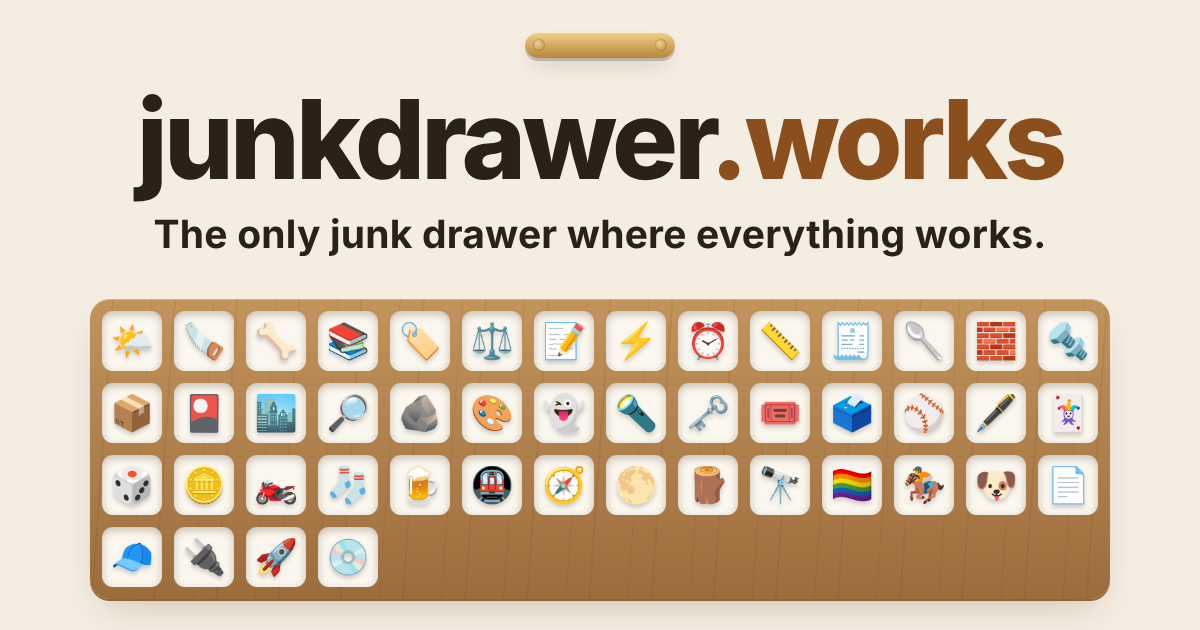
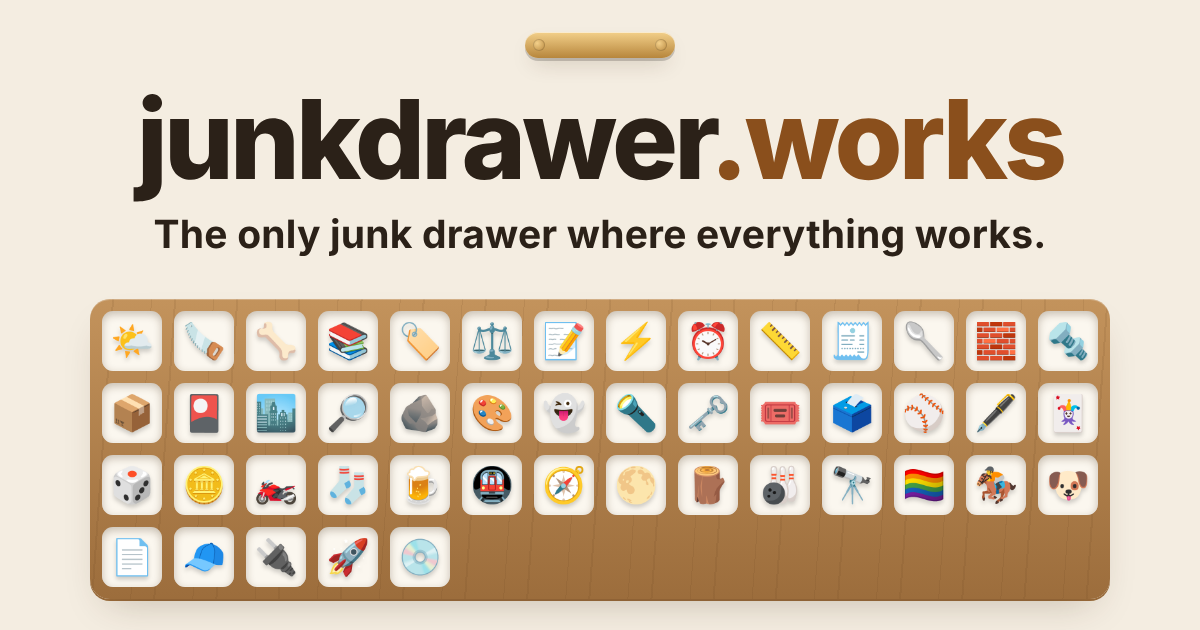
Add Roll Up to the Games tray
Skee-ball at roll-up.junkdrawer.works. The share image gets its
compartment too.

Claude-Session: https://claude.ai/code/session_01RkvUFhzoaPZyofz3pSrJ5i

diff --git a/index.html b/index.html
@@ -483,6 +483,13 @@
         <p>Flatten rough boards with hand planes. Scribble pencil across the face, plane until it’s gone, sight down the winding sticks for twist, and stop before the board’s too thin for the tabletop.</p>
         <span class="go" aria-hidden="true">Open →</span>
       </a>
+      <a class="slot" href="https://roll-up.junkdrawer.works/">
+        <span class="obj" aria-hidden="true">🎳</span>
+        <span class="label">New</span>
+        <h3>Roll Up</h3>
+        <p>Skee-ball, the boardwalk kind. Flick the ball up the lane and over the hump into the rings: nine balls a game, a ticket for every 10 points, and a prize counter to spend them at.</p>
+        <span class="go" aria-hidden="true">Open →</span>
+      </a>
       </div>
     </section>
 
